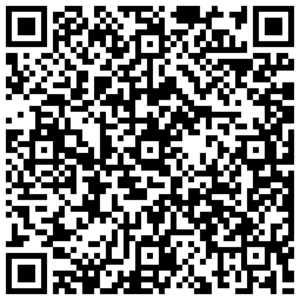
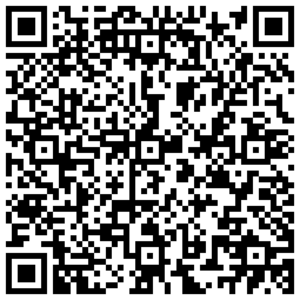
Update free configs - 2025-03-31

diff --git a/README.md b/README.md
@@ -1,6 +1,6 @@
 # 文档下方有很多可直接导入使用的高速节点/二维码订阅
 
-<p align='center'><strong>2025-03-30 12点准时更新每日免费节点，更多机场VPN优惠信息：<a href="https://vpn.tg10000.com">vpn.tg10000.com</a></strong></p>
+<p align='center'><strong>2025-03-31 12点准时更新每日免费节点，更多机场VPN优惠信息：<a href="https://vpn.tg10000.com">vpn.tg10000.com</a></strong></p>
 <p align='center'><strong>Telegram群:<a href="https://t.me/freevpn">@freevpntg</a></strong></p>
 
 
@@ -60,120 +60,120 @@
 
 <p align='center'><img src='img/1.png' alt='QR Code' width='300'></p>
 
-<p align='center'><code>ss://Y2hhY2hhMjAtaWV0Zi1wb2x5MTMwNToyZTFjNzg1Zi0zNGE3LTRjZGEtYjc5YS1hNDViNDRjNmMwZGY=@free.2apzhfa.xyz:31141#0%7C%F0%9F%87%AD%F0%9F%87%B0%E9%A6%99%E6%B8%AF%2001%20%7C%201x%20HK</code></p>
+<p align='center'><code>ss://Y2hhY2hhMjAtaWV0Zi1wb2x5MTMwNTo5NTBjZGM3ZS1jMGI5LTRjMWQtYmMzOC05M2U1NGYyNzE3NjE=@free.2weradf.xyz:36141#0%7C%F0%9F%87%AD%F0%9F%87%B0%20%E9%A6%99%E6%B8%AF%2001%20%7C%201x%20HK</code></p>
 
 <p align='center'><img src='img/2.png' alt='QR Code' width='300'></p>
 
-<p align='center'><code>ss://Y2hhY2hhMjAtaWV0Zi1wb2x5MTMwNToyZTFjNzg1Zi0zNGE3LTRjZGEtYjc5YS1hNDViNDRjNmMwZGY=@free.2apzhfa.xyz:31143#0%7C%F0%9F%87%AD%F0%9F%87%B0%E9%A6%99%E6%B8%AF%2002%20%7C%201x%20HK</code></p>
+<p align='center'><code>ss://Y2hhY2hhMjAtaWV0Zi1wb2x5MTMwNTo5NTBjZGM3ZS1jMGI5LTRjMWQtYmMzOC05M2U1NGYyNzE3NjE=@free.2weradf.xyz:36143#0%7C%F0%9F%87%AD%F0%9F%87%B0%20%E9%A6%99%E6%B8%AF%2002%20%7C%201x%20HK</code></p>
 
 <p align='center'><img src='img/3.png' alt='QR Code' width='300'></p>
 
-<p align='center'><code>ss://Y2hhY2hhMjAtaWV0Zi1wb2x5MTMwNToyZTFjNzg1Zi0zNGE3LTRjZGEtYjc5YS1hNDViNDRjNmMwZGY=@free.2apzhfa.xyz:31145#0%7C%F0%9F%87%AD%F0%9F%87%B0%E9%A6%99%E6%B8%AF%E5%AE%B6%E5%AE%BD%2003%20%7C%201x%20HK</code></p>
+<p align='center'><code>ss://Y2hhY2hhMjAtaWV0Zi1wb2x5MTMwNTo5NTBjZGM3ZS1jMGI5LTRjMWQtYmMzOC05M2U1NGYyNzE3NjE=@free.2weradf.xyz:36145#0%7C%F0%9F%87%AD%F0%9F%87%B0%20%E9%A6%99%E6%B8%AF%E4%BD%8F%E5%AE%85IP%2003%20%7C%201x%20HK</code></p>
 
 <p align='center'><img src='img/4.png' alt='QR Code' width='300'></p>
 
-<p align='center'><code>ss://Y2hhY2hhMjAtaWV0Zi1wb2x5MTMwNToyZTFjNzg1Zi0zNGE3LTRjZGEtYjc5YS1hNDViNDRjNmMwZGY=@free.2apzhfa.xyz:31241#0%7C%F0%9F%87%B9%F0%9F%87%BC%E5%8F%B0%E6%B9%BE%2001%20%7C%201x%20TW</code></p>
+<p align='center'><code>ss://Y2hhY2hhMjAtaWV0Zi1wb2x5MTMwNTo5NTBjZGM3ZS1jMGI5LTRjMWQtYmMzOC05M2U1NGYyNzE3NjE=@free.2weradf.xyz:36241#0%7C%F0%9F%87%B9%F0%9F%87%BC%20%E5%8F%B0%E6%B9%BE%2001%20%7C%201x%20TW</code></p>
 
 <p align='center'><img src='img/5.png' alt='QR Code' width='300'></p>
 
-<p align='center'><code>ss://Y2hhY2hhMjAtaWV0Zi1wb2x5MTMwNToyZTFjNzg1Zi0zNGE3LTRjZGEtYjc5YS1hNDViNDRjNmMwZGY=@free.2apzhfa.xyz:31243#0%7C%F0%9F%87%B9%F0%9F%87%BC%E5%8F%B0%E6%B9%BE%2002%20%7C%201x%20TW</code></p>
+<p align='center'><code>ss://Y2hhY2hhMjAtaWV0Zi1wb2x5MTMwNTo5NTBjZGM3ZS1jMGI5LTRjMWQtYmMzOC05M2U1NGYyNzE3NjE=@free.2weradf.xyz:36243#0%7C%F0%9F%87%B9%F0%9F%87%BC%20%E5%8F%B0%E6%B9%BE%2002%20%7C%201x%20TW</code></p>
 
 <p align='center'><img src='img/6.png' alt='QR Code' width='300'></p>
 
-<p align='center'><code>ss://Y2hhY2hhMjAtaWV0Zi1wb2x5MTMwNToyZTFjNzg1Zi0zNGE3LTRjZGEtYjc5YS1hNDViNDRjNmMwZGY=@free.2apzhfa.xyz:31245#0%7C%F0%9F%87%B9%F0%9F%87%BC%E5%8F%B0%E6%B9%BE%2003%20%7C%201x%20TW</code></p>
+<p align='center'><code>ss://Y2hhY2hhMjAtaWV0Zi1wb2x5MTMwNTo5NTBjZGM3ZS1jMGI5LTRjMWQtYmMzOC05M2U1NGYyNzE3NjE=@free.2weradf.xyz:36245#0%7C%F0%9F%87%B9%F0%9F%87%BC%20%E5%8F%B0%E6%B9%BE%2003%20%7C%201x%20TW</code></p>
 
 <p align='center'><img src='img/7.png' alt='QR Code' width='300'></p>
 
-<p align='center'><code>ss://Y2hhY2hhMjAtaWV0Zi1wb2x5MTMwNToyZTFjNzg1Zi0zNGE3LTRjZGEtYjc5YS1hNDViNDRjNmMwZGY=@free.2apzhfa.xyz:31111#0%7C%F0%9F%87%AF%F0%9F%87%B5%E6%97%A5%E6%9C%AC%2001%20%7C%201x%20JP</code></p>
+<p align='center'><code>ss://Y2hhY2hhMjAtaWV0Zi1wb2x5MTMwNTo5NTBjZGM3ZS1jMGI5LTRjMWQtYmMzOC05M2U1NGYyNzE3NjE=@free.2weradf.xyz:36111#0%7C%F0%9F%87%AF%F0%9F%87%B5%20%E6%97%A5%E6%9C%AC%2001%20%7C%201x%20JP</code></p>
 
 <p align='center'><img src='img/8.png' alt='QR Code' width='300'></p>
 
-<p align='center'><code>ss://Y2hhY2hhMjAtaWV0Zi1wb2x5MTMwNToyZTFjNzg1Zi0zNGE3LTRjZGEtYjc5YS1hNDViNDRjNmMwZGY=@free.2apzhfa.xyz:31113#0%7C%F0%9F%87%AF%F0%9F%87%B5%E6%97%A5%E6%9C%AC%2002%20%7C%201x%20JP</code></p>
+<p align='center'><code>ss://Y2hhY2hhMjAtaWV0Zi1wb2x5MTMwNTo5NTBjZGM3ZS1jMGI5LTRjMWQtYmMzOC05M2U1NGYyNzE3NjE=@free.2weradf.xyz:36113#0%7C%F0%9F%87%AF%F0%9F%87%B5%20%E6%97%A5%E6%9C%AC%2002%20%7C%201x%20JP</code></p>
 
 <p align='center'><img src='img/9.png' alt='QR Code' width='300'></p>
 
-<p align='center'><code>ss://Y2hhY2hhMjAtaWV0Zi1wb2x5MTMwNToyZTFjNzg1Zi0zNGE3LTRjZGEtYjc5YS1hNDViNDRjNmMwZGY=@free.2apzhfa.xyz:31115#0%7C%F0%9F%87%AF%F0%9F%87%B5%E6%97%A5%E6%9C%AC%2003%20%7C%201x%20JP</code></p>
+<p align='center'><code>ss://Y2hhY2hhMjAtaWV0Zi1wb2x5MTMwNTo5NTBjZGM3ZS1jMGI5LTRjMWQtYmMzOC05M2U1NGYyNzE3NjE=@free.2weradf.xyz:36115#0%7C%F0%9F%87%AF%F0%9F%87%B5%20%E6%97%A5%E6%9C%AC%2003%20%7C%201x%20JP</code></p>
 
 <p align='center'><img src='img/10.png' alt='QR Code' width='300'></p>
 
-<p align='center'><code>ss://Y2hhY2hhMjAtaWV0Zi1wb2x5MTMwNToyZTFjNzg1Zi0zNGE3LTRjZGEtYjc5YS1hNDViNDRjNmMwZGY=@free.2apzhfa.xyz:31171#0%7C%F0%9F%87%B8%F0%9F%87%AC%E6%96%B0%E5%8A%A0%E5%9D%A1%2001%20%7C%201x%20SG</code></p>
+<p align='center'><code>ss://Y2hhY2hhMjAtaWV0Zi1wb2x5MTMwNTo5NTBjZGM3ZS1jMGI5LTRjMWQtYmMzOC05M2U1NGYyNzE3NjE=@free.2weradf.xyz:36171#0%7C%F0%9F%87%B8%F0%9F%87%AC%20%E6%96%B0%E5%8A%A0%E5%9D%A1%2001%20%7C%201x%20SG</code></p>
 
 <p align='center'><img src='img/11.png' alt='QR Code' width='300'></p>
 
-<p align='center'><code>ss://Y2hhY2hhMjAtaWV0Zi1wb2x5MTMwNToyZTFjNzg1Zi0zNGE3LTRjZGEtYjc5YS1hNDViNDRjNmMwZGY=@free.2apzhfa.xyz:31173#0%7C%F0%9F%87%B8%F0%9F%87%AC%E6%96%B0%E5%8A%A0%E5%9D%A1%2002%20%7C%201x%20SG</code></p>
+<p align='center'><code>ss://Y2hhY2hhMjAtaWV0Zi1wb2x5MTMwNTo5NTBjZGM3ZS1jMGI5LTRjMWQtYmMzOC05M2U1NGYyNzE3NjE=@free.2weradf.xyz:36173#0%7C%F0%9F%87%B8%F0%9F%87%AC%20%E6%96%B0%E5%8A%A0%E5%9D%A1%2002%20%7C%201x%20SG</code></p>
 
 <p align='center'><img src='img/12.png' alt='QR Code' width='300'></p>
 
-<p align='center'><code>ss://Y2hhY2hhMjAtaWV0Zi1wb2x5MTMwNToyZTFjNzg1Zi0zNGE3LTRjZGEtYjc5YS1hNDViNDRjNmMwZGY=@free.2apzhfa.xyz:31175#0%7C%F0%9F%87%B8%F0%9F%87%AC%E6%96%B0%E5%8A%A0%E5%9D%A1%2003%20%7C%201x%20SG</code></p>
+<p align='center'><code>ss://Y2hhY2hhMjAtaWV0Zi1wb2x5MTMwNTo5NTBjZGM3ZS1jMGI5LTRjMWQtYmMzOC05M2U1NGYyNzE3NjE=@free.2weradf.xyz:36175#0%7C%F0%9F%87%B8%F0%9F%87%AC%20%E6%96%B0%E5%8A%A0%E5%9D%A1%2003%20%7C%201x%20SG</code></p>
 
 <p align='center'><img src='img/13.png' alt='QR Code' width='300'></p>
 
-<p align='center'><code>ss://Y2hhY2hhMjAtaWV0Zi1wb2x5MTMwNToyZTFjNzg1Zi0zNGE3LTRjZGEtYjc5YS1hNDViNDRjNmMwZGY=@free.2apzhfa.xyz:31311#0%7C%F0%9F%87%B0%F0%9F%87%B7%E9%9F%A9%E5%9B%BD%2001%20%7C%201x%20KR</code></p>
+<p align='center'><code>ss://Y2hhY2hhMjAtaWV0Zi1wb2x5MTMwNTo5NTBjZGM3ZS1jMGI5LTRjMWQtYmMzOC05M2U1NGYyNzE3NjE=@free.2weradf.xyz:36311#0%7C%F0%9F%87%B0%F0%9F%87%B7%20%E9%9F%A9%E5%9B%BD%2001%20%7C%201x%20KR</code></p>
 
 <p align='center'><img src='img/14.png' alt='QR Code' width='300'></p>
 
-<p align='center'><code>ss://Y2hhY2hhMjAtaWV0Zi1wb2x5MTMwNToyZTFjNzg1Zi0zNGE3LTRjZGEtYjc5YS1hNDViNDRjNmMwZGY=@free.2apzhfa.xyz:31313#0%7C%F0%9F%87%B0%F0%9F%87%B7%E9%9F%A9%E5%9B%BD%2002%20%7C%201x%20KR</code></p>
+<p align='center'><code>ss://Y2hhY2hhMjAtaWV0Zi1wb2x5MTMwNTo5NTBjZGM3ZS1jMGI5LTRjMWQtYmMzOC05M2U1NGYyNzE3NjE=@free.2weradf.xyz:36313#0%7C%F0%9F%87%B0%F0%9F%87%B7%20%E9%9F%A9%E5%9B%BD%2002%20%7C%201x%20KR</code></p>
 
 <p align='center'><img src='img/15.png' alt='QR Code' width='300'></p>
 
-<p align='center'><code>ss://Y2hhY2hhMjAtaWV0Zi1wb2x5MTMwNToyZTFjNzg1Zi0zNGE3LTRjZGEtYjc5YS1hNDViNDRjNmMwZGY=@free.2apzhfa.xyz:31341#0%7C%F0%9F%87%B5%F0%9F%87%AD%E8%8F%B2%E5%BE%8B%E5%AE%BE%2001%20%7C%201x%20PH</code></p>
+<p align='center'><code>ss://Y2hhY2hhMjAtaWV0Zi1wb2x5MTMwNTo5NTBjZGM3ZS1jMGI5LTRjMWQtYmMzOC05M2U1NGYyNzE3NjE=@free.2weradf.xyz:36341#0%7C%F0%9F%87%B5%F0%9F%87%AD%20%E8%8F%B2%E5%BE%8B%E5%AE%BE%2001%20%7C%201x%20PH</code></p>
 
 <p align='center'><img src='img/16.png' alt='QR Code' width='300'></p>
 
-<p align='center'><code>ss://Y2hhY2hhMjAtaWV0Zi1wb2x5MTMwNToyZTFjNzg1Zi0zNGE3LTRjZGEtYjc5YS1hNDViNDRjNmMwZGY=@free.2apzhfa.xyz:31211#0%7C%F0%9F%87%BA%F0%9F%87%B8%E7%BE%8E%E5%9B%BD%2001%20%7C%201x%20US%20Los%20Angeles</code></p>
+<p align='center'><code>ss://Y2hhY2hhMjAtaWV0Zi1wb2x5MTMwNTo5NTBjZGM3ZS1jMGI5LTRjMWQtYmMzOC05M2U1NGYyNzE3NjE=@free.2weradf.xyz:36211#0%7C%F0%9F%87%BA%F0%9F%87%B8%20%E7%BE%8E%E5%9B%BD%2001%20%7C%201x%20US%20Los%20Angeles</code></p>
 
 <p align='center'><img src='img/17.png' alt='QR Code' width='300'></p>
 
-<p align='center'><code>ss://Y2hhY2hhMjAtaWV0Zi1wb2x5MTMwNToyZTFjNzg1Zi0zNGE3LTRjZGEtYjc5YS1hNDViNDRjNmMwZGY=@free.2apzhfa.xyz:31213#0%7C%F0%9F%87%BA%F0%9F%87%B8%E7%BE%8E%E5%9B%BD%E5%AE%B6%E5%AE%BD%2002%20%7C%201x%20US%20Los%20Angeles</code></p>
+<p align='center'><code>ss://Y2hhY2hhMjAtaWV0Zi1wb2x5MTMwNTo5NTBjZGM3ZS1jMGI5LTRjMWQtYmMzOC05M2U1NGYyNzE3NjE=@free.2weradf.xyz:36213#0%7C%F0%9F%87%BA%F0%9F%87%B8%20%E7%BE%8E%E5%9B%BD%E4%BD%8F%E5%AE%85IP%2002%20%7C%201x%20US%20Los%20Angel...</code></p>
 
 <p align='center'><img src='img/18.png' alt='QR Code' width='300'></p>
 
-<p align='center'><code>ss://Y2hhY2hhMjAtaWV0Zi1wb2x5MTMwNToyZTFjNzg1Zi0zNGE3LTRjZGEtYjc5YS1hNDViNDRjNmMwZGY=@free.2apzhfa.xyz:31215#0%7C%F0%9F%87%BA%F0%9F%87%B8%E7%BE%8E%E5%9B%BD%2003%20%7C%201x%20US%20Washington</code></p>
+<p align='center'><code>ss://Y2hhY2hhMjAtaWV0Zi1wb2x5MTMwNTo5NTBjZGM3ZS1jMGI5LTRjMWQtYmMzOC05M2U1NGYyNzE3NjE=@free.2weradf.xyz:36215#0%7C%F0%9F%87%BA%F0%9F%87%B8%20%E7%BE%8E%E5%9B%BD%2003%20%7C%201x%20US%20Washington</code></p>
 
 <p align='center'><img src='img/19.png' alt='QR Code' width='300'></p>
 
-<p align='center'><code>ss://Y2hhY2hhMjAtaWV0Zi1wb2x5MTMwNToyZTFjNzg1Zi0zNGE3LTRjZGEtYjc5YS1hNDViNDRjNmMwZGY=@free.2apzhfa.xyz:31271#0%7C%F0%9F%87%AC%F0%9F%87%A7%E8%8B%B1%E5%9B%BD%E5%AE%B6%E5%AE%BD%2001%20%7C%201x%20UK</code></p>
+<p align='center'><code>ss://Y2hhY2hhMjAtaWV0Zi1wb2x5MTMwNTo5NTBjZGM3ZS1jMGI5LTRjMWQtYmMzOC05M2U1NGYyNzE3NjE=@free.2weradf.xyz:36271#0%7C%F0%9F%87%AC%F0%9F%87%A7%20%E8%8B%B1%E5%9B%BD%E4%BD%8F%E5%AE%85IP%2001%20%7C%201x%20UK</code></p>
 
 <p align='center'><img src='img/20.png' alt='QR Code' width='300'></p>
 
-<p align='center'><code>ss://Y2hhY2hhMjAtaWV0Zi1wb2x5MTMwNToyZTFjNzg1Zi0zNGE3LTRjZGEtYjc5YS1hNDViNDRjNmMwZGY=@free.2apzhfa.xyz:31741#0%7C%F0%9F%87%B9%F0%9F%87%AD%E6%B3%B0%E5%9B%BD01%20%20%7C%201x%20TH</code></p>
+<p align='center'><code>ss://Y2hhY2hhMjAtaWV0Zi1wb2x5MTMwNTo5NTBjZGM3ZS1jMGI5LTRjMWQtYmMzOC05M2U1NGYyNzE3NjE=@free.2weradf.xyz:36721#0%7C%F0%9F%87%B2%F0%9F%87%BE%E9%A9%AC%E6%9D%A5%E8%A5%BF%E4%BA%9A%2001%20%7C%201x%20MY</code></p>
 
 <p align='center'><img src='img/21.png' alt='QR Code' width='300'></p>
 
-<p align='center'><code>ss://Y2hhY2hhMjAtaWV0Zi1wb2x5MTMwNToyZTFjNzg1Zi0zNGE3LTRjZGEtYjc5YS1hNDViNDRjNmMwZGY=@free.2apzhfa.xyz:31721#0%7C%F0%9F%87%B2%F0%9F%87%BE%E9%A9%AC%E6%9D%A5%E8%A5%BF%E4%BA%9A01%20%7C%201x%20MY</code></p>
+<p align='center'><code>ss://Y2hhY2hhMjAtaWV0Zi1wb2x5MTMwNTo5NTBjZGM3ZS1jMGI5LTRjMWQtYmMzOC05M2U1NGYyNzE3NjE=@free.2weradf.xyz:36741#0%7C%F0%9F%87%AE%F0%9F%87%B3%E8%A5%BF%E7%8F%AD%E7%89%99%2001%20%7C%201x%20ES</code></p>
 
 <p align='center'><img src='img/22.png' alt='QR Code' width='300'></p>
 
-<p align='center'><code>ss://Y2hhY2hhMjAtaWV0Zi1wb2x5MTMwNToyZTFjNzg1Zi0zNGE3LTRjZGEtYjc5YS1hNDViNDRjNmMwZGY=@free.2apzhfa.xyz:31371#0%7C%F0%9F%87%AE%F0%9F%87%B3%E5%8D%B0%E5%BA%A6%2001%20%7C%201x%20IN</code></p>
+<p align='center'><code>ss://Y2hhY2hhMjAtaWV0Zi1wb2x5MTMwNTo5NTBjZGM3ZS1jMGI5LTRjMWQtYmMzOC05M2U1NGYyNzE3NjE=@free.2weradf.xyz:36731#0%7C%F0%9F%87%B9%F0%9F%87%AD%E6%B3%B0%E5%9B%BD%2001%20%7C%201x%20TH</code></p>
 
 <p align='center'><img src='img/23.png' alt='QR Code' width='300'></p>
 
-<p align='center'><code>ss://Y2hhY2hhMjAtaWV0Zi1wb2x5MTMwNToyZTFjNzg1Zi0zNGE3LTRjZGEtYjc5YS1hNDViNDRjNmMwZGY=@free.2apzhfa.xyz:31411#0%7C%F0%9F%87%A6%F0%9F%87%BA%E6%BE%B3%E5%A4%A7%E5%88%A9%E4%BA%9A%2001%20%7C%201x%20AU</code></p>
+<p align='center'><code>ss://Y2hhY2hhMjAtaWV0Zi1wb2x5MTMwNTo5NTBjZGM3ZS1jMGI5LTRjMWQtYmMzOC05M2U1NGYyNzE3NjE=@free.2weradf.xyz:36371#0%7C%F0%9F%87%AE%F0%9F%87%B3%20%E5%8D%B0%E5%BA%A6%2001%20%7C%201x%20IN</code></p>
 
 <p align='center'><img src='img/24.png' alt='QR Code' width='300'></p>
 
-<p align='center'><code>ss://Y2hhY2hhMjAtaWV0Zi1wb2x5MTMwNToyZTFjNzg1Zi0zNGE3LTRjZGEtYjc5YS1hNDViNDRjNmMwZGY=@free.2apzhfa.xyz:31441#0%7C%F0%9F%87%A8%F0%9F%87%A6%E5%8A%A0%E6%8B%BF%E5%A4%A7%2001%20%7C%201x%20CA</code></p>
+<p align='center'><code>ss://Y2hhY2hhMjAtaWV0Zi1wb2x5MTMwNTo5NTBjZGM3ZS1jMGI5LTRjMWQtYmMzOC05M2U1NGYyNzE3NjE=@free.2weradf.xyz:36411#0%7C%F0%9F%87%A6%F0%9F%87%BA%20%E6%BE%B3%E5%A4%A7%E5%88%A9%E4%BA%9A%2001%20%7C%201x%20AU</code></p>
 
 <p align='center'><img src='img/25.png' alt='QR Code' width='300'></p>
 
-<p align='center'><code>ss://Y2hhY2hhMjAtaWV0Zi1wb2x5MTMwNToyZTFjNzg1Zi0zNGE3LTRjZGEtYjc5YS1hNDViNDRjNmMwZGY=@free.2apzhfa.xyz:31471#0%7C%F0%9F%87%A9%F0%9F%87%AA%E5%BE%B7%E5%9B%BD%2001%20%7C%201x%20DE</code></p>
+<p align='center'><code>ss://Y2hhY2hhMjAtaWV0Zi1wb2x5MTMwNTo5NTBjZGM3ZS1jMGI5LTRjMWQtYmMzOC05M2U1NGYyNzE3NjE=@free.2weradf.xyz:36441#0%7C%F0%9F%87%A8%F0%9F%87%A6%20%E5%8A%A0%E6%8B%BF%E5%A4%A7%2001%20%7C%201x%20CA</code></p>
 
 <p align='center'><img src='img/26.png' alt='QR Code' width='300'></p>
 
-<p align='center'><code>ss://Y2hhY2hhMjAtaWV0Zi1wb2x5MTMwNToyZTFjNzg1Zi0zNGE3LTRjZGEtYjc5YS1hNDViNDRjNmMwZGY=@free.2apzhfa.xyz:31511#0%7C%F0%9F%87%B7%F0%9F%87%BA%E4%BF%84%E7%BD%97%E6%96%AF%2001%20%7C%201x%20RU</code></p>
+<p align='center'><code>ss://Y2hhY2hhMjAtaWV0Zi1wb2x5MTMwNTo5NTBjZGM3ZS1jMGI5LTRjMWQtYmMzOC05M2U1NGYyNzE3NjE=@free.2weradf.xyz:36471#0%7C%F0%9F%87%A9%F0%9F%87%AA%20%E5%BE%B7%E5%9B%BD%2001%20%7C%201x%20DE</code></p>
 
 <p align='center'><img src='img/27.png' alt='QR Code' width='300'></p>
 
-<p align='center'><code>ss://Y2hhY2hhMjAtaWV0Zi1wb2x5MTMwNToyZTFjNzg1Zi0zNGE3LTRjZGEtYjc5YS1hNDViNDRjNmMwZGY=@free.2apzhfa.xyz:31571#0%7C%F0%9F%87%B9%F0%9F%87%B7%E5%9C%9F%E8%80%B3%E5%85%B6%2001%20%7C%201x%20TR</code></p>
+<p align='center'><code>ss://Y2hhY2hhMjAtaWV0Zi1wb2x5MTMwNTo5NTBjZGM3ZS1jMGI5LTRjMWQtYmMzOC05M2U1NGYyNzE3NjE=@free.2weradf.xyz:36511#0%7C%F0%9F%87%B7%F0%9F%87%BA%20%E4%BF%84%E7%BD%97%E6%96%AF%2001%20%7C%201x%20RU</code></p>
 
 <p align='center'><img src='img/28.png' alt='QR Code' width='300'></p>
 
-<p align='center'><code>ss://Y2hhY2hhMjAtaWV0Zi1wb2x5MTMwNToyZTFjNzg1Zi0zNGE3LTRjZGEtYjc5YS1hNDViNDRjNmMwZGY=@free.2apzhfa.xyz:31611#0%7C%F0%9F%87%BA%F0%9F%87%A6%E4%B9%8C%E5%85%8B%E5%85%B0%2001%20%7C%201x%20UA</code></p>
+<p align='center'><code>ss://Y2hhY2hhMjAtaWV0Zi1wb2x5MTMwNTo5NTBjZGM3ZS1jMGI5LTRjMWQtYmMzOC05M2U1NGYyNzE3NjE=@free.2weradf.xyz:36571#0%7C%F0%9F%87%B9%F0%9F%87%B7%20%E5%9C%9F%E8%80%B3%E5%85%B6%2001%20%7C%201x%20TR</code></p>
 
 <p align='center'><img src='img/29.png' alt='QR Code' width='300'></p>
 
-<p align='center'><code>ss://Y2hhY2hhMjAtaWV0Zi1wb2x5MTMwNToyZTFjNzg1Zi0zNGE3LTRjZGEtYjc5YS1hNDViNDRjNmMwZGY=@free.2apzhfa.xyz:31641#0%7C%F0%9F%87%BB%F0%9F%87%B3%E8%B6%8A%E5%8D%97%2001%20%7C%201x%20VN</code></p>
+<p align='center'><code>ss://Y2hhY2hhMjAtaWV0Zi1wb2x5MTMwNTo5NTBjZGM3ZS1jMGI5LTRjMWQtYmMzOC05M2U1NGYyNzE3NjE=@free.2weradf.xyz:36611#0%7C%F0%9F%87%BA%F0%9F%87%A6%20%E4%B9%8C%E5%85%8B%E5%85%B0%2001%20%7C%201x%20UA</code></p>
 
 <p align='center'><img src='img/30.png' alt='QR Code' width='300'></p>
 
-<p align='center'><code>ss://Y2hhY2hhMjAtaWV0Zi1wb2x5MTMwNToyZTFjNzg1Zi0zNGE3LTRjZGEtYjc5YS1hNDViNDRjNmMwZGY=@free.2apzhfa.xyz:31671#0%7C%F0%9F%87%A7%F0%9F%87%B7%E5%B7%B4%E8%A5%BF%2001%20%7C%201x%20BR</code></p>
+<p align='center'><code>ss://Y2hhY2hhMjAtaWV0Zi1wb2x5MTMwNTo5NTBjZGM3ZS1jMGI5LTRjMWQtYmMzOC05M2U1NGYyNzE3NjE=@free.2weradf.xyz:36641#0%7C%F0%9F%87%BB%F0%9F%87%B3%20%E8%B6%8A%E5%8D%97%2001%20%7C%201x%20VN</code></p>
